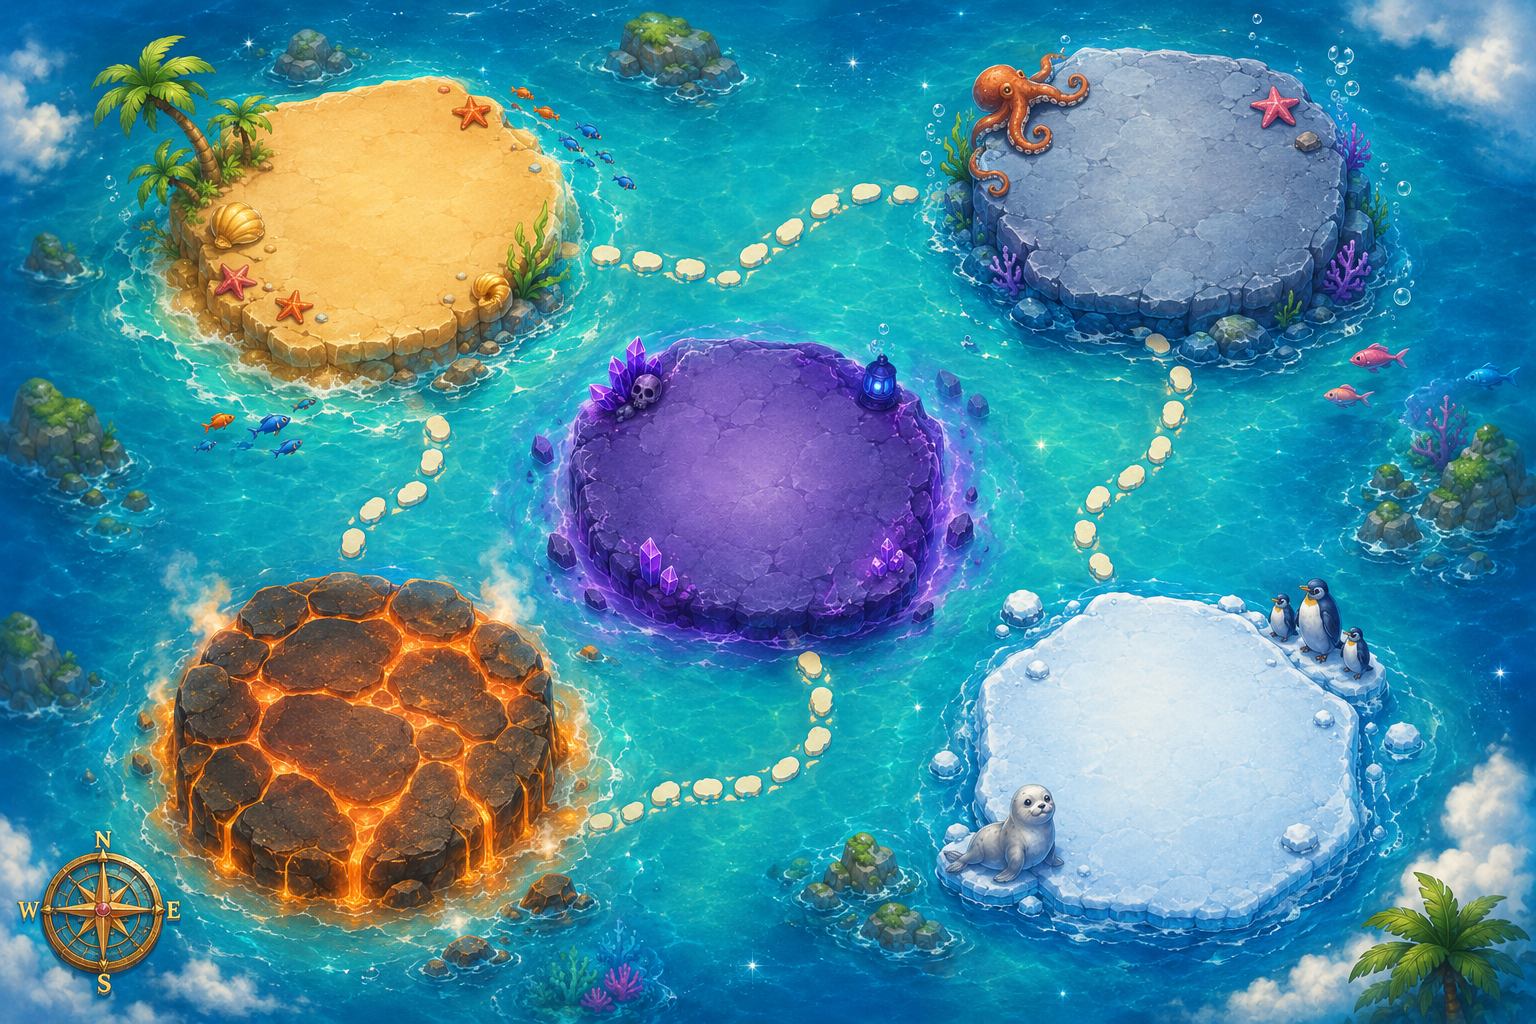
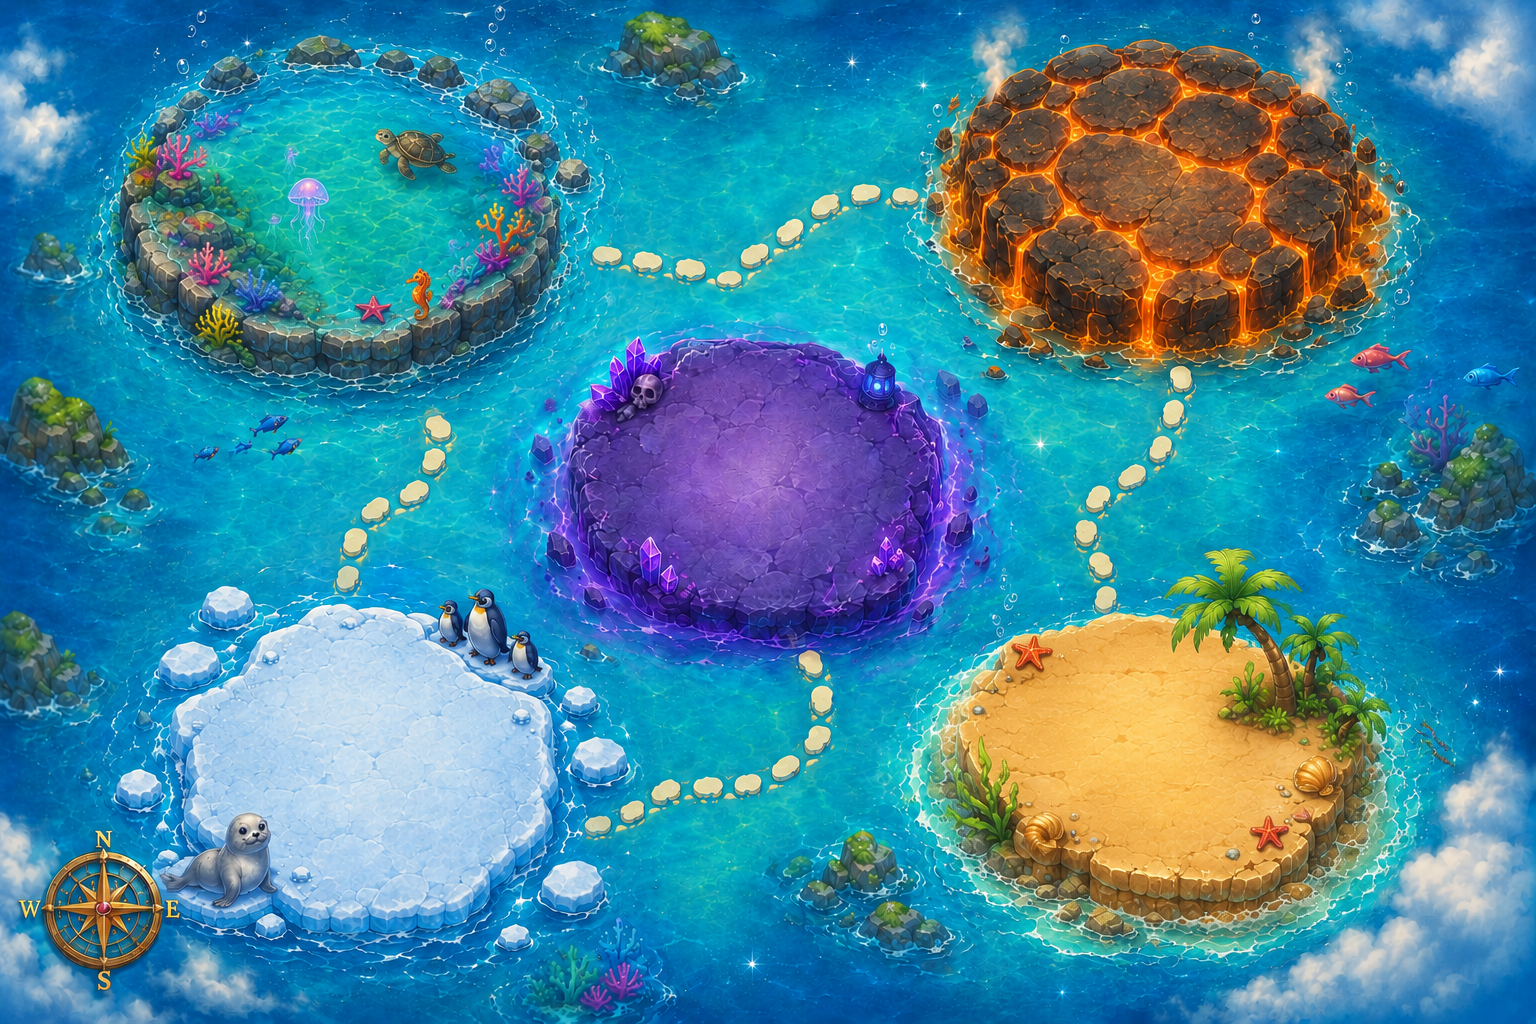
feat(campaign): new world-map art + reorder chapters (lagoon-volcano-reef-arctic-abyss)
Chapter order/story ramp changed per design: лагуна → лава → риф → арктика → бездна.
worldPosition coords updated to the new map art (reef TL, volcano TR, abyss centre,
arctic BL, lagoon BR). Selectors/content tests updated for the new order.

diff --git a/src/state/campaign.ts b/src/state/campaign.ts
@@ -64,12 +64,15 @@ const NODES: { x: number; y: number }[] = Array.from({ length: LEVELS_PER_CHAPTE
   return { x, y };
 });
 
+// Difficulty/story order: лагуна → лава → риф → арктика → бездна.
+// worldPosition = % coords of each island on world-map.png (reef top-left, volcano
+// top-right, abyss centre, arctic bottom-left, lagoon bottom-right).
 export const CHAPTERS: CampaignChapter[] = [
-  { biome: 'lagoon',  skinId: 'sea.lagoon', starsToUnlock: 0,  levels: buildLevels('lagoon'),  worldPosition: { x: 22, y: 20 }, nodePositions: NODES },
-  { biome: 'reef',    skinId: 'sea.reef',    starsToUnlock: 18, levels: buildLevels('reef'),    worldPosition: { x: 78, y: 18 }, nodePositions: NODES },
-  { biome: 'arctic',  skinId: 'sea.arctic',  starsToUnlock: 18, levels: buildLevels('arctic'),  worldPosition: { x: 78, y: 74 }, nodePositions: NODES },
-  { biome: 'volcano', skinId: 'sea.lava',    starsToUnlock: 18, levels: buildLevels('volcano'), worldPosition: { x: 20, y: 74 }, nodePositions: NODES },
-  { biome: 'abyss',   skinId: 'sea.abyss',   starsToUnlock: 18, levels: buildLevels('abyss'),   worldPosition: { x: 50, y: 48 }, nodePositions: NODES },
+  { biome: 'lagoon',  skinId: 'sea.lagoon', starsToUnlock: 0,  levels: buildLevels('lagoon'),  worldPosition: { x: 77, y: 75 }, nodePositions: NODES },
+  { biome: 'volcano', skinId: 'sea.lava',    starsToUnlock: 18, levels: buildLevels('volcano'), worldPosition: { x: 78, y: 18 }, nodePositions: NODES },
+  { biome: 'reef',    skinId: 'sea.reef',    starsToUnlock: 18, levels: buildLevels('reef'),    worldPosition: { x: 22, y: 18 }, nodePositions: NODES },
+  { biome: 'arctic',  skinId: 'sea.arctic',  starsToUnlock: 18, levels: buildLevels('arctic'),  worldPosition: { x: 23, y: 73 }, nodePositions: NODES },
+  { biome: 'abyss',   skinId: 'sea.abyss',   starsToUnlock: 18, levels: buildLevels('abyss'),   worldPosition: { x: 50, y: 47 }, nodePositions: NODES },
 ];
 
 /** Map a finished game to 0–3 stars: 1 for the win + 1 per met objective, capped at 3. */

diff --git a/src/state/__tests__/campaignSelectors.test.ts b/src/state/__tests__/campaignSelectors.test.ts
@@ -13,14 +13,14 @@ describe('campaign selectors', () => {
     const cp: CampaignProgress = { stars: { 'lagoon-1': 1 }, cleared: ['lagoon-1'] };
     expect(isLevelUnlocked('lagoon-2', cp)).toBe(true);
   });
-  it('chapter 2 stays locked until chapter 1 has enough stars', () => {
-    expect(isChapterUnlocked('reef', empty)).toBe(false);
+  it('chapter 2 (volcano) stays locked until chapter 1 has enough stars', () => {
+    expect(isChapterUnlocked('volcano', empty)).toBe(false);
     const stars: Record<string, 3> = {};
     for (let i = 1; i <= 6; i++) stars[`lagoon-${i}`] = 3; // 18 stars
     const cp: CampaignProgress = { stars, cleared: Object.keys(stars) };
     expect(chapterStars('lagoon', cp)).toBe(18);
-    expect(isChapterUnlocked('reef', cp)).toBe(true);
-    expect(isLevelUnlocked('reef-1', cp)).toBe(true); // first level of an unlocked chapter
+    expect(isChapterUnlocked('volcano', cp)).toBe(true);
+    expect(isLevelUnlocked('volcano-1', cp)).toBe(true); // first level of an unlocked chapter
   });
   it('totalStars sums across chapters; isChapterComplete needs all levels cleared', () => {
     const cp: CampaignProgress = { stars: { 'lagoon-1': 2, 'reef-1': 1 }, cleared: ['lagoon-1', 'reef-1'] };

diff --git a/src/state/__tests__/campaignContent.test.ts b/src/state/__tests__/campaignContent.test.ts
@@ -3,7 +3,7 @@ import { CHAPTERS, LEVELS_PER_CHAPTER, computeStars } from '../campaign';
 
 describe('campaign content', () => {
   it('has 5 chapters in ramp order, each with 12 levels and unique ids', () => {
-    expect(CHAPTERS.map(c => c.biome)).toEqual(['lagoon', 'reef', 'arctic', 'volcano', 'abyss']);
+    expect(CHAPTERS.map(c => c.biome)).toEqual(['lagoon', 'volcano', 'reef', 'arctic', 'abyss']);
     const ids = CHAPTERS.flatMap(c => c.levels.map(l => l.id));
     expect(ids.length).toBe(5 * LEVELS_PER_CHAPTER);
     expect(new Set(ids).size).toBe(ids.length);